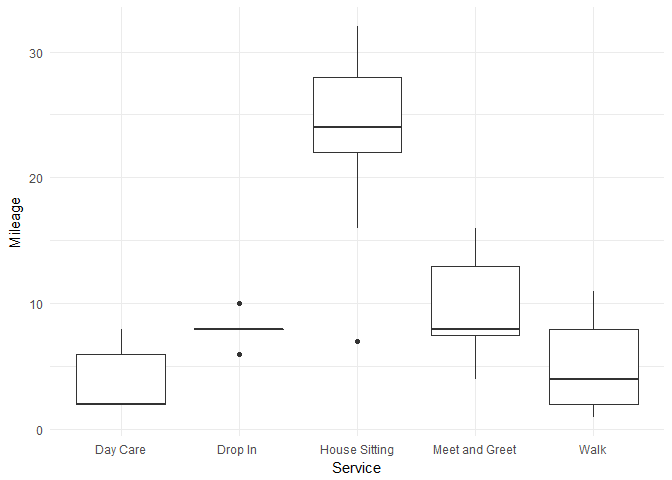
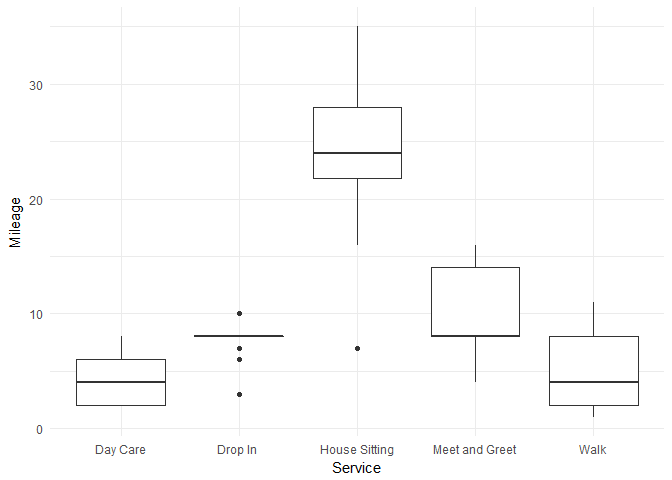
Update with more mileage

diff --git a/Mileage_with_Rover.md b/Mileage_with_Rover.md
@@ -22,7 +22,7 @@ From 2017/09/09 to 2018/01/26
 sum(df$Mileage)
 ```
 
-    ## [1] 1245
+    ## [1] 1403
 
 ### Mileage by Service Type
 
@@ -31,19 +31,19 @@ by(df$Mileage, df$Service, sum)
 ```
 
     ## df$Service: Day Care
-    ## [1] 54
+    ## [1] 60
     ## -------------------------------------------------------- 
     ## df$Service: Drop In 
-    ## [1] 96
+    ## [1] 106
     ## -------------------------------------------------------- 
     ## df$Service: House Sitting
-    ## [1] 558
+    ## [1] 642
     ## -------------------------------------------------------- 
     ## df$Service: Meet and Greet
-    ## [1] 146
+    ## [1] 168
     ## -------------------------------------------------------- 
     ## df$Service: Walk
-    ## [1] 391
+    ## [1] 427
 
 ``` r
 # boxplots of mileage by service type
@@ -62,7 +62,7 @@ Fuel Costs
 sum(df$Cost)
 ```
 
-    ## [1] 155.2308
+    ## [1] 175.3676
 
 ``` r
 # histogram of cost by service type
